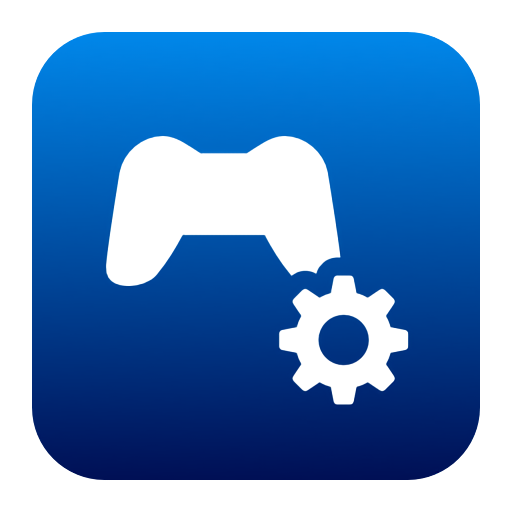
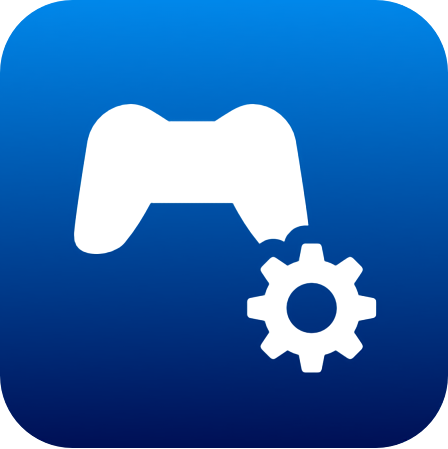
Disable "Hetero containment policy." in Powerplan

diff --git a/src/AutoOS.App/Views/Updater/Stages/UpdateStage.cs b/src/AutoOS.App/Views/Updater/Stages/UpdateStage.cs
@@ -1,13 +1,20 @@
+using AutoOS.Views.Settings.Power;
+
 namespace AutoOS.Views.Updater.Stages;
 
 public static class UpdateStage
 {
-    public static List<(string Title, Func<Task> Action, Func<bool> Condition)> UpdateActions(UpdateDialog dialog)
-    {
-        var actions = new List<(string Title, Func<Task> Action, Func<bool> Condition)>
-        {
-        };
+	public static List<(string Title, Func<Task> Action, Func<bool> Condition)> UpdateActions(UpdateDialog dialog)
+	{
+		Guid guid = Guid.Empty;
 
-        return actions;
-    }
+		return
+		[
+            // update power plan
+            ("Selecting AutoOS Power Plan", async () => guid = PowerApi.GetPlanGuidByName("AutoOS"), null),
+			(@"Disabling ""Hetero containment policy.""", async () => PowerApi.WriteACValueIndex(guid, new Guid("54533251-82be-4824-96c1-47b60b740d00"), new Guid("60fbe21b-efd9-49f2-b066-8674d8e9f423"), 0), null),
+			(@"Disabling ""Hetero containment policy.""", async () => PowerApi.WriteDCValueIndex(guid, new Guid("54533251-82be-4824-96c1-47b60b740d00"), new Guid("60fbe21b-efd9-49f2-b066-8674d8e9f423"), 0), null),
+			("Applying Changes", async () =>  PowerApi.PowerSetActiveScheme(guid), null)
+		];
+	}
 }

diff --git a/src/AutoOS.App/Views/Installer/Stages/PowerStage.cs b/src/AutoOS.App/Views/Installer/Stages/PowerStage.cs
@@ -55,7 +55,9 @@ public static class PowerStage
             (@"Disabling ""Allow Throttle States""", async () => PowerApi.WriteACValueIndex(guid, new Guid("54533251-82be-4824-96c1-47b60b740d00"), new Guid("3b04d4fd-1cc7-4f23-ab1c-d1337819c4bb"), 0), null),
             (@"Setting ""Complex unpark policy"" to ""Round robin""", async () => PowerApi.WriteACValueIndex(guid, new Guid("54533251-82be-4824-96c1-47b60b740d00"), new Guid("b669a5e9-7b1d-4132-baaa-49190abcfeb6"), 1), null),
             (@"Setting ""Complex unpark policy"" to ""Round robin""", async () => PowerApi.WriteDCValueIndex(guid, new Guid("54533251-82be-4824-96c1-47b60b740d00"), new Guid("b669a5e9-7b1d-4132-baaa-49190abcfeb6"), 1), null),
-            (@"Setting ""Heterogeneous policy in effect"" to ""Use heterogeneous policy 0""", async () => PowerApi.WriteACValueIndex(guid, new Guid("54533251-82be-4824-96c1-47b60b740d00"), new Guid("7f2f5cfa-f10c-4823-b5e1-e93ae85f46b5"), 0), null),
+            (@"Disabling ""Hetero containment policy.""", async () => PowerApi.WriteACValueIndex(guid, new Guid("54533251-82be-4824-96c1-47b60b740d00"), new Guid("60fbe21b-efd9-49f2-b066-8674d8e9f423"), 0), null),
+            (@"Disabling ""Hetero containment policy.""", async () => PowerApi.WriteDCValueIndex(guid, new Guid("54533251-82be-4824-96c1-47b60b740d00"), new Guid("60fbe21b-efd9-49f2-b066-8674d8e9f423"), 0), null),
+			(@"Setting ""Heterogeneous policy in effect"" to ""Use heterogeneous policy 0""", async () => PowerApi.WriteACValueIndex(guid, new Guid("54533251-82be-4824-96c1-47b60b740d00"), new Guid("7f2f5cfa-f10c-4823-b5e1-e93ae85f46b5"), 0), null),
             (@"Setting ""Heterogeneous policy in effect"" to ""Use heterogeneous policy 0""", async () => PowerApi.WriteDCValueIndex(guid, new Guid("54533251-82be-4824-96c1-47b60b740d00"), new Guid("7f2f5cfa-f10c-4823-b5e1-e93ae85f46b5"), 0), null),
             (@"Setting ""Heterogeneous short running thread scheduling policy"" to ""All processors""", async () => PowerApi.WriteACValueIndex(guid, new Guid("54533251-82be-4824-96c1-47b60b740d00"), new Guid("bae08b81-2d5e-4688-ad6a-13243356654b"), 0), null),
             (@"Setting ""Heterogeneous short running thread scheduling policy"" to ""All processors""", async () => PowerApi.WriteDCValueIndex(guid, new Guid("54533251-82be-4824-96c1-47b60b740d00"), new Guid("bae08b81-2d5e-4688-ad6a-13243356654b"), 0), null),